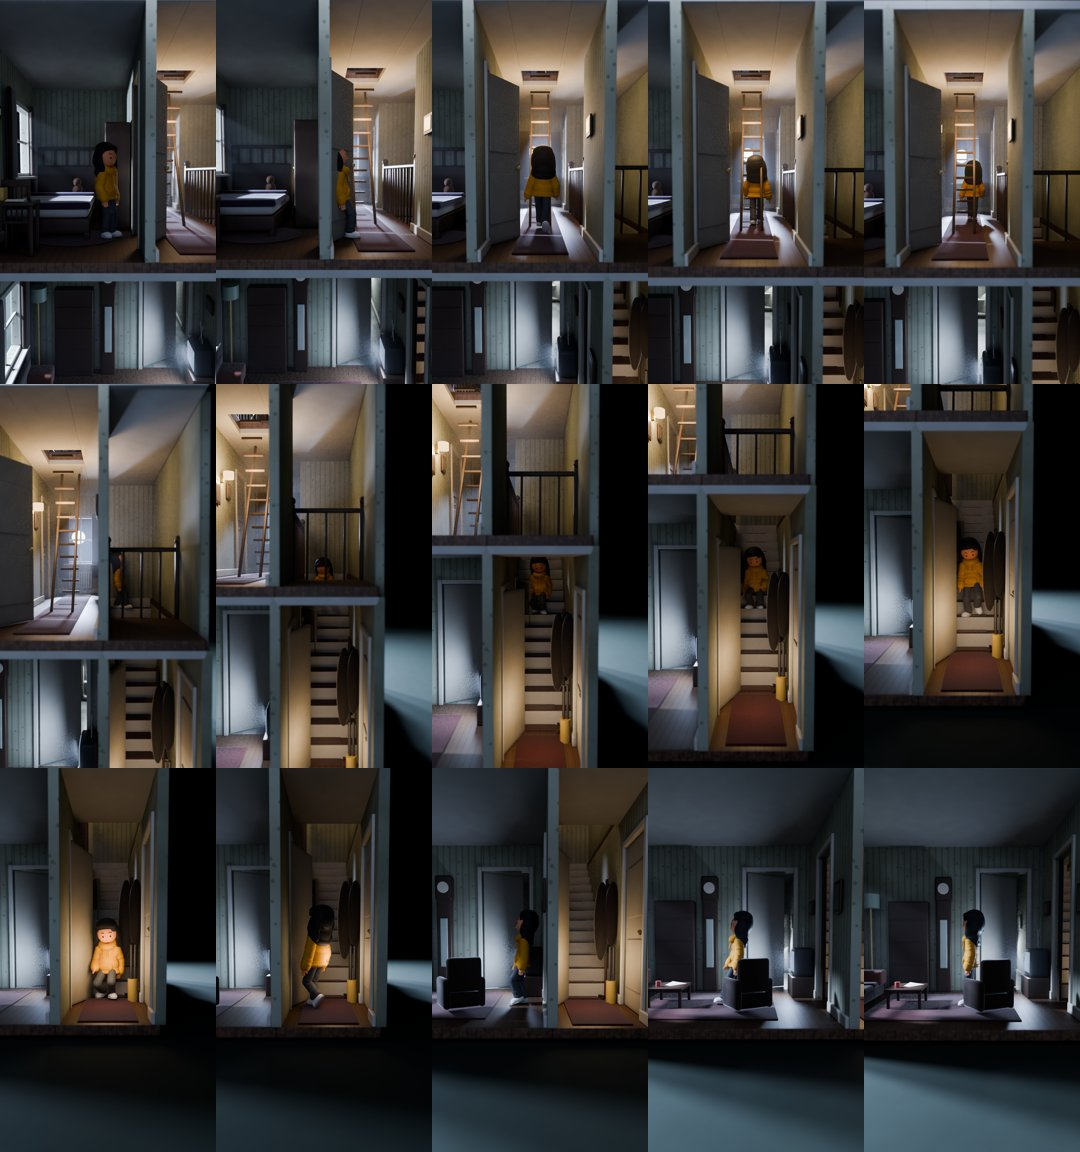
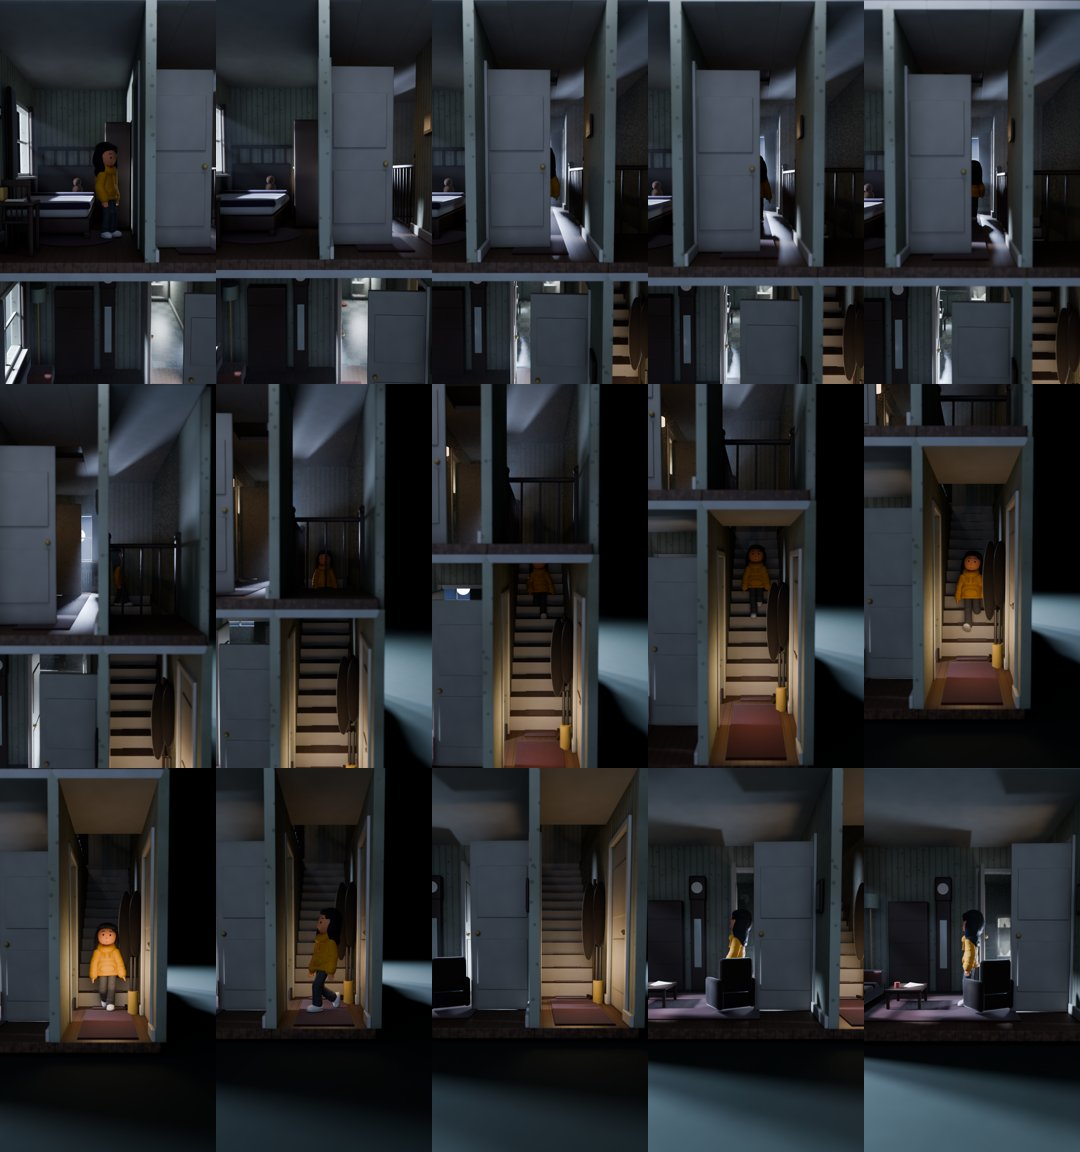
Walking fixes: no passing through things, upright on the stairs with leg IK
Route check (every route traced against the house's objects): interior doors swing wide open in the house (front,
back and cupboard doors stay shut), the attic ladder folds up with the hatch shut, sloped stair stringers instead
of solid side blocks, no kitchen door under the stairs (the kitchen is reached through the living room), route
points moved clear of door edges. Walker: the upright walk on the stairs too (slower), Floor.place() bends each leg
with two-bone IK so each foot lands on its own tread, then lowers her until the planted shoe touches (within 1 mm).

diff --git a/YTB/horror/blender/puppets/walker.py b/YTB/horror/blender/puppets/walker.py
@@ -4,8 +4,9 @@
     floor = Floor()                             # every walkable surface (the Colliders collection) as one BVH
     for each frame:  W, xy, z, yaw = w.at(t); place the root; MC.apply(h, W, yaw); floor.stand(h, z)
 
-Legs on a floor play the 'walk' clip at its own speed (the stride matches the ground covered, no sliding); legs on
-the stairs play 'stairs_down' / 'stairs_up' with one clip step per stair. The yaw turns smoothly into each new leg,
+Every leg plays the upright 'walk' clip at its own stride (no sliding); on the stairs it plays slower (careful
+steps) and Floor.place() bends each leg with IK so the foot lands on the tread under it, so she stays upright instead
+of using a crouching stairs clip. The yaw turns smoothly into each new leg,
 clips cross-fade, and when the route ends she settles into a standing pose. Floor.stand() casts a ray down under
 each shoe and lifts or lowers her so the foot she stands on rests on the floor, step or rug below it.
 """
@@ -17,7 +18,8 @@ import numpy as np
 import mocap as MC
 
 STAIR_RUN = 0.023          # horizontal depth of one stair (house kit)
-CLIPS = {'walk': 'walk', 'stairs_down': 'stairs_down', 'stairs_up': 'stairs_up'}
+CLIPS = {'walk': 'walk', 'stairs_down': 'walk', 'stairs_up': 'walk'}
+STAIR_PACE = 0.7           # careful steps on the stairs: the walk played slower
 IDLE = ('look_behind', 0.15)
 
 
@@ -36,9 +38,8 @@ class Walker:
         K = lib.k
         H = lib.clips['walk'][1]; T = lib.length('walk')
         v_walk = K * float(np.linalg.norm((H[-1] - H[0])[:2])) / T * pace
-        speed = {'walk': v_walk}
-        for k in ('stairs_down', 'stairs_up'):
-            speed[k] = 2 * STAIR_RUN / lib.length(k)                     # one clip cycle = two steps = two stairs
+        speed = {'walk': v_walk, 'stairs_down': v_walk * STAIR_PACE, 'stairs_up': v_walk * STAIR_PACE}
+        self.rate = {'walk': 1.0, 'stairs_down': STAIR_PACE, 'stairs_up': STAIR_PACE}   # clip seconds per second
         self.legs = []; t = t0; prev_kind = None; phase = 0.0
         pts = [p for p, _ in route]
         for i in range(1, len(route)):
@@ -46,9 +47,8 @@ class Walker:
             d = b - a; L = Vector((d.x, d.y)).length
             if L < 1e-6: continue
             dur = L / speed[kind]
-            if kind != prev_kind: phase = 0.0
             self.legs.append(dict(a=a, b=b, kind=kind, t0=t, t1=t + dur, yaw=yaw_of(d), phase0=phase))
-            phase += dur; t += dur; prev_kind = kind
+            phase += dur * self.rate[kind]; t += dur; prev_kind = kind           # one continuous walk cycle
         self.t0, self.t_end = t0, t
 
     def _leg(self, t):
@@ -57,7 +57,7 @@ class Walker:
         return len(self.legs) - 1, self.legs[-1]
 
     def _pose(self, L, t):
-        c = L['phase0'] + max(0.0, t - L['t0'])
+        c = L['phase0'] + max(0.0, t - L['t0']) * self.rate[L['kind']]
         W, _ = self.lib.sample(CLIPS[L['kind']], c, loop=True)
         return W
 
@@ -126,4 +126,57 @@ class Floor:
             d = max(gs) - zlo - sink                                       # it rests on the highest thing under it
             best = d if best is None else max(best, d)
         if best is not None: h.root.location.z = z_hint + best
+        return h.root.location.z
+
+    def place(self, h, W, yaw, z_path, lift=0.35):
+        """Put her on the floor or the stairs with both feet: find the surface under each shoe, set the root between
+        the two (closer to the lower one), then bend each leg with two-bone IK so its ankle sits on its own surface
+        at the height the walk clip lifts it. Returns the root height."""
+        bpy.context.view_layer.update(); dg = bpy.context.evaluated_depsgraph_get()
+        ank = h.rest['foot.L'].z
+        sides = {}
+        for s in ('L', 'R'):
+            sole = next(o for o in h.meshes if o.name.startswith('sole.' + s))
+            ev = sole.evaluated_get(dg); me = ev.to_mesh()
+            co = np.empty(len(me.vertices) * 3); me.vertices.foreach_get('co', co)
+            Mw = np.array(ev.matrix_world); P_ = co.reshape(-1, 3) @ Mw[:3, :3].T + Mw[:3, 3]; ev.to_mesh_clear()
+            zlo = float(P_[:, 2].min()); flat = P_[P_[:, 2] < zlo + 0.0025]
+            pick = flat[np.linspace(0, len(flat) - 1, min(10, len(flat))).astype(int)]
+            gs = [self.below(float(p[0]), float(p[1]), z_path + 0.07) for p in pick]
+            gs = [g for g in gs if g is not None]
+            A = h.P['foot.' + s].matrix_world.translation.copy()
+            sides[s] = dict(g=max(gs) if gs else z_path, A=A, hc=max(0.0, zlo - z_path),
+                            H=h.P['thigh.' + s].matrix_world.translation.copy(), K=h.P['shin.' + s].matrix_world.translation.copy())
+        g0, g1 = sorted(v['g'] for v in sides.values())
+        r = g0 + lift * (g1 - g0)
+        d = r - z_path; h.root.location.z = r
+        W = dict(W); changed = False
+        for s, v in sides.items():
+            H, K_, A = v['H'] + Vector((0, 0, d)), v['K'] + Vector((0, 0, d)), v['A'] + Vector((0, 0, d))
+            T = Vector((A.x, A.y, v['g'] + (A.z - r)))                     # the clip's ankle height, over this foot's own surface
+            if abs(T.z - A.z) < 1e-4: continue
+            a, b = (K_ - H).length, (A - K_).length
+            ST = T - H; dl = min(ST.length, (a + b) * 0.999); u = ST.normalized()
+            pole = (K_ - H) - u * (K_ - H).dot(u)
+            pole = pole.normalized() if pole.length > 1e-6 else Vector((0, -1, 0))
+            ca = max(-1.0, min(1.0, (a * a + dl * dl - b * b) / (2 * a * dl)))
+            E = H + (u * ca + pole * math.sqrt(1 - ca * ca)) * a; T2 = H + u * dl
+            R1 = (K_ - H).rotation_difference(E - H)
+            v1 = R1 @ (A - K_); R2 = v1.rotation_difference(T2 - E)
+            W['thigh.' + s] = R1 @ W['thigh.' + s]
+            W['shin.' + s] = R2 @ R1 @ W['shin.' + s]
+            changed = True
+        if changed: MC.apply(h, W, yaw)
+        # last: the walk clip never puts a foot quite to zero, so lower her until the planted shoe touches
+        bpy.context.view_layer.update(); dg = bpy.context.evaluated_depsgraph_get(); gaps = []
+        for s in ('L', 'R'):
+            sole = next(o for o in h.meshes if o.name.startswith('sole.' + s))
+            ev = sole.evaluated_get(dg); me = ev.to_mesh()
+            co = np.empty(len(me.vertices) * 3); me.vertices.foreach_get('co', co)
+            Mw = np.array(ev.matrix_world); P_ = co.reshape(-1, 3) @ Mw[:3, :3].T + Mw[:3, 3]; ev.to_mesh_clear()
+            zlo = float(P_[:, 2].min()); flat = P_[P_[:, 2] < zlo + 0.0025]
+            gs = [self.below(float(p[0]), float(p[1]), zlo + 0.03) for p in flat[::max(1, len(flat) // 10)]]
+            gs = [g for g in gs if g is not None]
+            if gs: gaps.append(zlo - max(gs))
+        if gaps: h.root.location.z -= min(gaps) + 0.0006
         return h.root.location.z

diff --git a/YTB/horror/blender/library/sets/kit.py b/YTB/horror/blender/library/sets/kit.py
@@ -250,8 +250,9 @@ def _cut(rect, holes):
     return out
 
 
-def door(u0, u1, h=DOOR_H, kind='door', angle=0.0, leaf=True, hinge='start', spill=None):
-    return dict(kind=kind, u0=u0, u1=u1, z0=0.0, z1=h, angle=angle, leaf=leaf, hinge=hinge, spill=spill)
+def door(u0, u1, h=DOOR_H, kind='door', angle=0.0, leaf=True, hinge='start', spill=None, keep=False):
+    """keep=True: an outside door or a cupboard; in the house the other doors swing wide open so she can walk through"""
+    return dict(kind=kind, u0=u0, u1=u1, z0=0.0, z1=h, angle=angle, leaf=leaf, hinge=hinge, spill=spill, keep=keep)
 
 
 def window(u0, u1, z0, z1, curtains=True, moon=False):
@@ -324,7 +325,9 @@ def _frame(holder, o, side, a, t, n):
                 pn = block('door_panel', x0 + 0.008, x1 - 0.008, s * 0.003, s * 0.0045, zz, zz + 0.06, M['door'], bevel=0.0012); attach(pn, hg)
             kx = x1 - 0.009 if o['hinge'] == 'start' else x0 + 0.009
             kn = sphere('door_knob', 0.0028, (0, 0, 0), mat=M['brass']); _to(kn); attach(kn, hg); kn.location = (kx, s * 0.006, 0.092)
-            hg.rotation_euler = (0, 0, math.radians(o['angle']) * (1 if o['hinge'] == 'start' else -1) * s)
+            ang = o['angle']
+            if HOUSE and not o.get('keep'): ang = math.copysign(88.0, ang or 1.0)       # wide open, flat to the wall
+            hg.rotation_euler = (0, 0, math.radians(ang) * (1 if o['hinge'] == 'start' else -1) * s)
         if o.get('spill') and not HOUSE:                                    # light from the room behind the door
             sp = point_light('door_spill', (0, 0, 0), o['spill'][0], radius=0.02, color=o['spill'][1]); _to(sp, 'Lights')
             attach(sp, holder); sp.location = ((u0 + u1) / 2, -s * 0.05, 0.1)
@@ -445,8 +448,10 @@ def stairs_down(x0, x1, y_top, y_dir, n=12, rise=0.018, run=0.025, mat='floor'):
         block('stair_runner', (x0 + x1) / 2 - 0.022, (x0 + x1) / 2 + 0.022, min(ya, yb) + 0.001, max(ya, yb) - 0.001, z, z + 0.0012,
               M['runner'], bevel=0.0004)
     yb = y_top + y_dir * run * n
-    for xx in (x0 - 0.004, x1):
-        block('stringer', xx, xx + 0.004, min(y_top, yb), max(y_top, yb), -rise * n - 0.01, 0.0, M['wood'], bevel=0.001)
+    dy, dz = y_dir * run * n, -rise * n; ln = math.hypot(dy, dz); ang = math.atan2(dz, dy)
+    for xx in (x0 - 0.002, x1 + 0.002):                                 # sloped side boards that follow the flight
+        sg = rounded_box('stringer', (0.004, ln + 0.02, 0.03), (xx, y_top + dy / 2, dz / 2 - 0.012), bevel=0.001, mat=M['wood'])
+        sg.rotation_euler = (ang, 0, 0); _to(sg)                           # its long side along the slope
 
 
 def banister(x, y0, y1, h=0.09, n=12):

diff --git a/YTB/horror/blender/library/sets/house/nav.py b/YTB/horror/blender/library/sets/house/nav.py
@@ -16,18 +16,18 @@ P = {
     'hallway_s': (0.0, 0.10, U), 'hallway_stairs': (0.015, 0.425, U), 'hallway_n': (0.0, 0.52, U),
     'stair_top': (0.115, 0.43, U),
     # ground floor
-    'stair_bottom': (0.115, 0.13, 0.0), 'hall_s': (0.115, 0.075, 0.0), 'front_door': (0.15, 0.07, 0.0),
+    'stair_bottom': (0.115, 0.13, 0.0), 'hall_s': (0.115, 0.075, 0.0), 'front_door': (0.138, 0.07, 0.0),
     'living_door': (0.065, 0.12, 0.0), 'living_room': (-0.06, 0.12, 0.0),
-    'hall_under_stairs': (0.09, 0.3, 0.0), 'kitchen_door': (0.065, 0.34, 0.0), 'kitchen': (-0.09, 0.36, 0.0),
-    'kitchen_living_door': (-0.005, 0.25, 0.0), 'hall_n': (0.115, 0.52, 0.0),
+    'kitchen': (-0.09, 0.36, 0.0), 'kitchen_living_door': (-0.005, 0.25, 0.0), 'living_n': (0.012, 0.2, 0.0),
+    'kitchen_s': (-0.005, 0.3, 0.0),
 }
 EDGES = [
     ('bedroom', 'bedroom_door'), ('bedroom_door', 'hallway_s'), ('hallway_s', 'hallway_stairs'),
     ('hallway_stairs', 'hallway_n'), ('hallway_stairs', 'bathroom_door'), ('bathroom_door', 'bathroom'),
     ('hallway_stairs', 'stair_top'), ('stair_top', 'stair_bottom'),
     ('stair_bottom', 'hall_s'), ('hall_s', 'front_door'), ('hall_s', 'living_door'), ('living_door', 'living_room'),
-    ('hall_s', 'hall_under_stairs'), ('hall_under_stairs', 'kitchen_door'), ('kitchen_door', 'kitchen'),
-    ('hall_under_stairs', 'hall_n'), ('kitchen', 'kitchen_living_door'), ('kitchen_living_door', 'living_room'),
+    ('living_room', 'living_n'), ('living_n', 'kitchen_living_door'), ('kitchen_living_door', 'kitchen_s'),
+    ('kitchen_s', 'kitchen'),
 ]
 STAIRS = {('stair_top', 'stair_bottom')}
 

diff --git a/YTB/horror/blender/library/sets/house/attic.py b/YTB/horror/blender/library/sets/house/attic.py
@@ -43,15 +43,17 @@ def build(house=False):
     for (a, b, c, d) in ((hx0 - 0.005, hy0, hx0, hy1), (hx1, hy0, hx1 + 0.005, hy1), (hx0 - 0.005, hy0 - 0.005, hx1 + 0.005, hy0),
                          (hx0 - 0.005, hy1, hx1 + 0.005, hy1 + 0.005)):
         B('hatch_frame', a, c, b, d, AZ, AZ + 0.004, M['wood'], bevel=0.001)
+    if house:                                       # in the house the ladder is folded up and the hatch shut
+        B('hatch_lid', hx0, hx1, hy0, hy1, AZ - 0.012, AZ - 0.006, M['wood'], bevel=0.001)
     top, bot = Vector((0, hy0 + 0.004, AZ)), Vector((0, 0.36, 0.0))     # down through the hatch into the hallway
     d = bot - top; ln = d.length; ang = math.atan2(-d.z, -d.y)
-    for sx in (-0.016, 0.016):
+    for sx in ((-0.016, 0.016) if not house else ()):
         r = K.rounded_box('ladder_rail', (0.004, ln, 0.006), (sx, (top.y + bot.y) / 2, (top.z + bot.z) / 2), bevel=0.001, mat=M['wood'])
         r.rotation_euler = (-ang, 0, 0); K._to(r)
-    for i in range(1, 12):
+    for i in (range(1, 12) if not house else ()):
         p = top + d * (i / 12)
         B('ladder_rung', -0.016, 0.016, p.y - 0.002, p.y + 0.002, p.z - 0.002, p.z + 0.002, M['wood'], bevel=0.0008)
-    glow = K.point_light('hallway_glow', (0.0, 0.24, 0.17), 1.0, radius=0.03, color=(1.0, 0.68, 0.38)); K._to(glow, 'Lights')
+    if not house: glow = K.point_light('hallway_glow', (0.0, 0.24, 0.17), 1.0, radius=0.03, color=(1.0, 0.68, 0.38)); K._to(glow, 'Lights')
 
     # clutter: cardboard boxes stacked under the left slope
     import random

diff --git a/YTB/horror/blender/library/sets/house/kitchen.py b/YTB/horror/blender/library/sets/house/kitchen.py
@@ -31,11 +31,11 @@ def build(house=False):
     K.floor((X0, Y0, X1, Y1), mat='lino')
     K.ceiling((X0, Y0, X1, Y1))
     K.wall((X0, Y1), (X1, Y1), inward=-1, openings=[K.window(0.1, 0.18, 0.1, 0.185, curtains=True, moon=True)])
-    K.wall((X1, Y0), (X1, Y1), inward=1, openings=[K.door(0.05, 0.13, angle=-25, hinge='end')])           # to the hall
-    K.wall((X0, Y0), (X0, Y1), inward=-1, openings=[K.door(0.1, 0.18, angle=0, hinge='start')])           # back door
+    K.wall((X1, Y0), (X1, Y1), inward=1)            # (no door to the hall: the stairs fill the hall there)
+    K.wall((X0, Y0), (X0, Y1), inward=-1, openings=[K.door(0.1, 0.18, angle=0, hinge='start', keep=True)])           # back door
     K.cladding((X0, Y1), (X1, Y1), -1, height=0.13, mat='tiles_kitchen')
     if house:                                       # the wall to the living room (open in the standalone preview)
-        K.wall((X0, Y0), (X1, Y0), inward=1, openings=[K.door(0.2, 0.28, angle=30, hinge='start')])
+        K.wall((X0, Y0), (X1, Y0), inward=1, openings=[K.door(0.2, 0.28, angle=-30, hinge='start')])
 
     # counter run along the north wall: base cupboards, worktop, sink under the window, stove at the west end
     cy0, cy1, ch = Y1 - IN - 0.045, Y1 - IN, 0.068

diff --git a/YTB/horror/blender/library/sets/house/hallway.py b/YTB/horror/blender/library/sets/house/hallway.py
@@ -35,7 +35,7 @@ def build(house=False):
         K.door(0.06, 0.14, angle=28, hinge='start', spill=(0.35, (1.0, 0.66, 0.35))),     # Haru's bedroom, ajar
         K.door(0.38, 0.46, angle=0, hinge='end')])                                         # bathroom, shut
     K.wall((X1, 0.0), (X1, SW[1]), inward=1)
-    K.wall((X1, SW[3]), (X1, Y1), inward=1, openings=[K.door(0.05, 0.11, h=0.19, angle=0, hinge='end')])   # linen cupboard
+    K.wall((X1, SW[3]), (X1, Y1), inward=1, openings=[K.door(0.05, 0.11, h=0.19, angle=0, hinge='end', keep=True)])   # linen cupboard
     K.wall((X0, Y1), (X1, Y1), inward=-1, openings=[K.window(0.035, 0.095, 0.08, 0.19, moon=True)])
     # the stairwell: walls going down below the floor, stairs coming down toward the camera, a landing at the bottom
     for (a, b, c, d) in ((XS, SW[1] - 0.12, XS + K.WT, SW[3]), (X1, SW[3], XS + K.WT, SW[3] + K.WT)):

diff --git a/YTB/horror/blender/library/sets/house/plan.py b/YTB/horror/blender/library/sets/house/plan.py
@@ -13,9 +13,11 @@ house.py places it at the level below.
 
 Doors (wall, along-wall span from the wall's start):
     hallway west wall x=-0.065:  bedroom y 0.06..0.14, bathroom y 0.38..0.46
-    hall west wall x=0.065:      living room y 0.08..0.16, kitchen y 0.30..0.38
+    hall west wall x=0.065:      living room y 0.08..0.16 (the stairs fill the hall behind it: the kitchen is
+                                 reached through the living room)
     hall east wall x=0.165:      front door y 0.03..0.11
     kitchen west wall x=-0.245:  back door y 0.35..0.43
+    kitchen south wall y=0.25:   to the living room x -0.045..0.035
 Stairs: from the upstairs floor at y 0.45 down to the ground floor at y 0.15 (13 steps of 2 cm), inside x 0.065..0.165.
 
 Interior walls are built by one room only (so they are not doubled): the kitchen builds the kitchen / living room wall

diff --git a/YTB/horror/blender/scenes/house_walk.py b/YTB/horror/blender/scenes/house_walk.py
@@ -43,10 +43,10 @@ for f in range(1, F + 1):
     W, xy, zh, yaw = w.at(t)
     h.root.location = (xy.x, xy.y, zh); h.root.rotation_euler = (0, 0, yaw)
     MC.apply(h, W, yaw)
+    z = floor.place(h, W, yaw, zh)                               # feet on the floor, the treads, the rugs (leg IK)
     for pv in ('chest', 'neck', 'head'):
         e = h.P[pv]; a = 0.005
         e.rotation_euler = (e.rotation_euler.x + chat.uniform(-a, a), e.rotation_euler.y, e.rotation_euler.z + chat.uniform(-a, a))
-    z = floor.stand(h, zh)
     j, je = boil.v(), boil.e()
     h.root.location += j; h.root.rotation_euler = (je.x, je.y, yaw + je.z)
     h.expr('neutral', blink=any(abs(t - b) < 0.09 for b in (1.5, 4.8, 8.2, 11.6, 15.0)))

diff --git a/YTB/horror/blender/library/sets/house/living_room.py b/YTB/horror/blender/library/sets/house/living_room.py
@@ -31,7 +31,7 @@ def build(house=False):
     K.floor((X0, Y0, X1, Y1))
     K.ceiling((X0, Y0, X1, Y1))
     K.wall((X0, Y0), (X0, Y1), inward=-1, openings=[K.window(0.07, 0.17, 0.085, 0.185, moon=True)])
-    K.wall((X1, Y0), (X1, Y1), inward=1, openings=[K.door(0.08, 0.16, angle=-20, hinge='start')])     # to the hall
+    K.wall((X1, Y0), (X1, Y1), inward=1, openings=[K.door(0.08, 0.16, angle=20, hinge='start')])      # to the hall (opens into the room)
     if not house:                                                                      # the kitchen builds this one
         K.wall((X0, Y1), (X1, Y1), inward=-1, openings=[K.door(0.2, 0.28, angle=0, hinge='start')])
 

diff --git a/YTB/horror/blender/library/sets/house/hall.py b/YTB/horror/blender/library/sets/house/hall.py
@@ -30,7 +30,7 @@ def build(house=False):
     M = K.M; B = K.block; IN = K.WT / 2
     K.floor((X0, Y0, X1, Y1))
     K.ceiling((X0, Y0, X1, Y1), holes=[STAIRWELL])
-    K.wall((X1, Y0), (X1, Y1), inward=1, openings=[K.door(0.03, 0.11, angle=0, hinge='end')])            # the front door
+    K.wall((X1, Y0), (X1, Y1), inward=1, openings=[K.door(0.03, 0.11, angle=0, hinge='end', keep=True)])            # the front door
     K.wall((X0, Y1), (X1, Y1), inward=-1)
     K.runner(X0 + 0.02, X1 - 0.02, 0.01, 0.14)
     K.runner(X0 + 0.02, X1 - 0.02, 0.46, 0.59)
